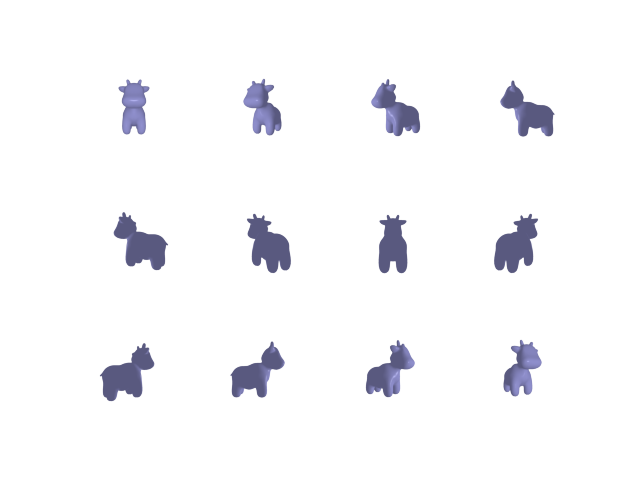
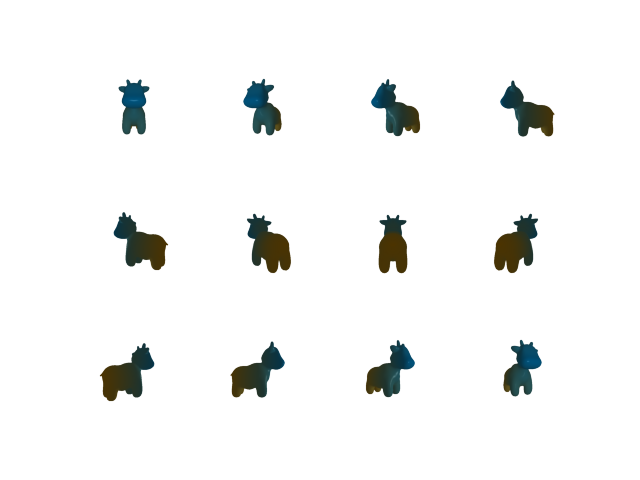
finished next task

diff --git a/HW1/starter/render_mesh.py b/HW1/starter/render_mesh.py
@@ -97,19 +97,138 @@ def render_cow_multiple_views(
             ax.imshow(image.cpu())
             ax.axis("off")
 
-        # Save the figure to a file (adjust the file format as needed)
         plt.savefig('images/trial_image.png')
-
         # Optionally, show the figure
         # plt.show()
-
         images = images.cpu().numpy()
         # img_list = [img.squeeze().astype(np.uint8) for img in images]
         img_list = [np.clip((img.squeeze() * 255).astype(np.uint8), 0, 255) for img in images]
-
-
         imageio.mimsave('images/cow_360.gif', img_list, loop=10, duration = 0.05)
         plt.close()
+
+def render_tetrahedron(image_size=256, color=[0.7, 0.7, 1], device=None):
+    if device is None:
+            device = get_device()
+    # Get the renderer.
+    renderer = get_mesh_renderer(image_size=image_size)
+
+    vertices = torch.tensor([[3,0,0],[0,0,3],[-2,0,-2],[0,3,0]], dtype=torch.float32).unsqueeze(0)
+    faces = torch.tensor([[0,1,2],[0,1,3],[0,2,3],[1,2,3]], dtype=torch.int64).unsqueeze(0)
+
+    textures = torch.ones_like(vertices)  # (1, N_v, 3)
+    textures = textures * torch.tensor(color)  # (1, N_v, 3)
+    mesh = pytorch3d.structures.Meshes(
+        verts=vertices,
+        faces=faces,
+        textures=pytorch3d.renderer.TexturesVertex(textures),
+    )
+    mesh = mesh.to(device)
+
+    num_views = 12
+    R, T = pytorch3d.renderer.look_at_view_transform(
+        dist=6,
+        elev=3,
+        azim=np.linspace(-180, 180, num_views, endpoint=False),
+    )
+    many_cameras = pytorch3d.renderer.FoVPerspectiveCameras(
+        R=R,
+        T=T,
+        device=device
+    )
+    lights = pytorch3d.renderer.PointLights(location=[[0, 0, -3]], device=device)
+    images = renderer(mesh.extend(num_views), cameras=many_cameras, lights=lights)
+    fig, axs = plt.subplots(3, 4)
+    axs = axs.flatten()
+    for i, image in enumerate(images):
+        ax = axs[i]
+        ax.imshow(image.cpu())
+        ax.axis("off")
+
+    # Save the figure to a file (adjust the file format as needed)
+    plt.savefig('images/tetrahedron.png')
+    # Optionally, show the figure
+    # plt.show()
+    images = images.cpu().numpy()
+    # img_list = [img.squeeze().astype(np.uint8) for img in images]
+    img_list = [np.clip((img.squeeze() * 255).astype(np.uint8), 0, 255) for img in images]
+
+    imageio.mimsave('images/tetrahedron_360.gif', img_list, loop=10, duration = 0.05)
+    plt.close()
+
+
+def retexture_cow(
+    cow_path="data/cow.obj",
+    image_size=256,
+    color1=[0.0, 0.4, 0.6],
+    color2=[0.6, 0.4, 0.0],
+    device=None):
+        """
+        color1=[0.0, 0.4, 0.6],
+        color2=[0.6, 0.4, 0.0],
+
+        Both are blended as per the z value of the vertices
+        """
+        if device is None:
+            device = get_device()
+        # Get the renderer.
+        renderer = get_mesh_renderer(image_size=image_size)
+
+        # Get the vertices, faces, and textures.
+        vertices, faces = load_cow_mesh(cow_path)
+        vertices = vertices.unsqueeze(0)  # (N_v, 3) -> (1, N_v, 3)
+        faces = faces.unsqueeze(0)  # (N_f, 3) -> (1, N_f, 3)
+
+        ######### Blend color according to z value of the vertices #######
+        textures = vertices[0].clone()
+        z_min = vertices[..., 2].min().cpu().item()
+        z_max = vertices[..., 2].max().cpu().item()
+        print("Z min:", z_min, "Z max:", z_max)
+        color1 = torch.tensor(color1, dtype=torch.float32).to(device)
+        color2 = torch.tensor(color2, dtype=torch.float32).to(device)
+        alpha = lambda z: (z - z_min) / (z_max - z_min)
+        color = lambda alpha: alpha * color2 + (1 - alpha) * color1
+
+        for i in range(textures.shape[0]): # textures shape = (N_v, 3)
+            textures[i] = color(alpha(textures[i, 2].cpu().item()))
+        textures = textures.unsqueeze(0)
+        ##################################################################
+
+        mesh = pytorch3d.structures.Meshes(
+            verts=vertices,
+            faces=faces,
+            textures=pytorch3d.renderer.TexturesVertex(textures),
+        )
+        mesh = mesh.to(device)
+
+        num_views = 12
+        R, T = pytorch3d.renderer.look_at_view_transform(
+            dist=3,
+            elev=0,
+            azim=np.linspace(-180, 180, num_views, endpoint=False),
+        )
+        many_cameras = pytorch3d.renderer.FoVPerspectiveCameras(
+            R=R,
+            T=T,
+            device=device
+        )
+        lights = pytorch3d.renderer.PointLights(location=[[0, 0, -3]], device=device)
+        images = renderer(mesh.extend(num_views), cameras=many_cameras, lights=lights)
+        fig, axs = plt.subplots(3, 4)
+        axs = axs.flatten()
+        for i, image in enumerate(images):
+            ax = axs[i]
+            ax.imshow(image.cpu())
+            ax.axis("off")
+
+        plt.savefig('images/trial_image.png')
+        # Optionally, show the figure
+        # plt.show()
+        images = images.cpu().numpy()
+        # img_list = [img.squeeze().astype(np.uint8) for img in images]
+        img_list = [np.clip((img.squeeze() * 255).astype(np.uint8), 0, 255) for img in images]
+        imageio.mimsave('images/cow_retextured_360.gif', img_list, loop=10, duration = 0.05)
+        plt.close()
+
 
 if __name__ == "__main__":
     parser = argparse.ArgumentParser()
@@ -117,6 +236,10 @@ if __name__ == "__main__":
     parser.add_argument("--output_path", type=str, default="images/cow_render.jpg")
     parser.add_argument("--image_size", type=int, default=256)
     args = parser.parse_args()
+
     # image = render_cow(cow_path=args.cow_path, image_size=args.image_size)
     # plt.imsave(args.output_path, image)
-    image = render_cow_multiple_views(cow_path=args.cow_path, image_size=args.image_size)
+
+    # image = render_cow_multiple_views(cow_path=args.cow_path, image_size=args.image_size)
+    # render_tetrahedron(image_size=args.image_size)
+    retexture_cow(cow_path=args.cow_path, image_size=args.image_size)

diff --git a/HW1/starter/dolly_zoom.py b/HW1/starter/dolly_zoom.py
@@ -58,8 +58,7 @@ def dolly_zoom(
         draw = ImageDraw.Draw(image)
         draw.text((20, 20), f"fov: {fovs[i]:.2f}", fill=(255, 0, 0))
         images.append(np.array(image))
-    imageio.mimsave(output_file, images, fps=(num_frames / duration), )
-
+    imageio.mimsave(output_file, images, fps=(num_frames / duration), loop=3)
 
 if __name__ == "__main__":
     parser = argparse.ArgumentParser()
